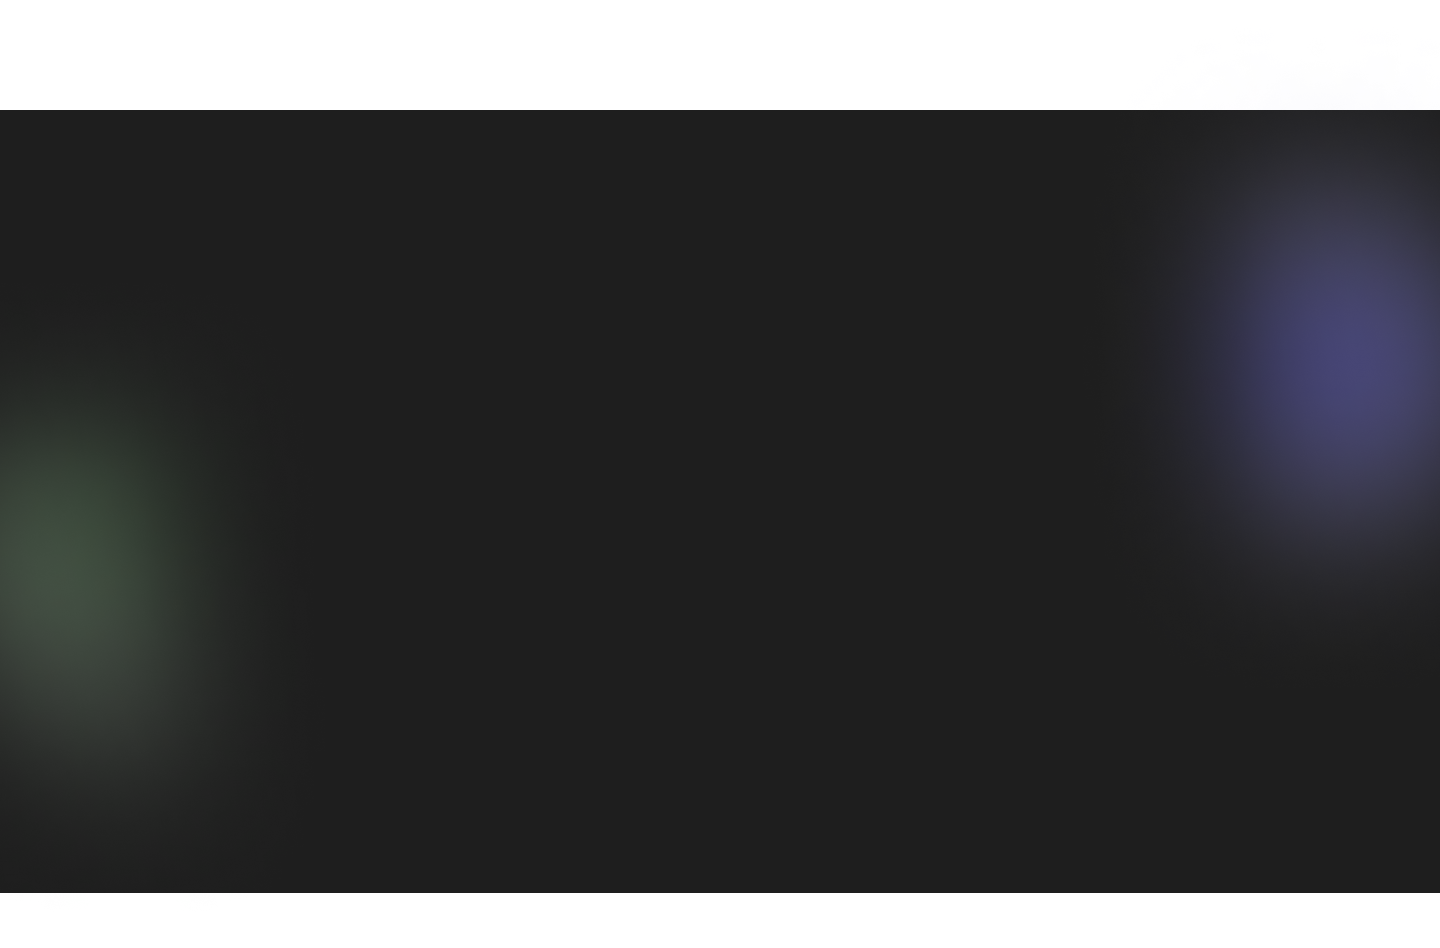
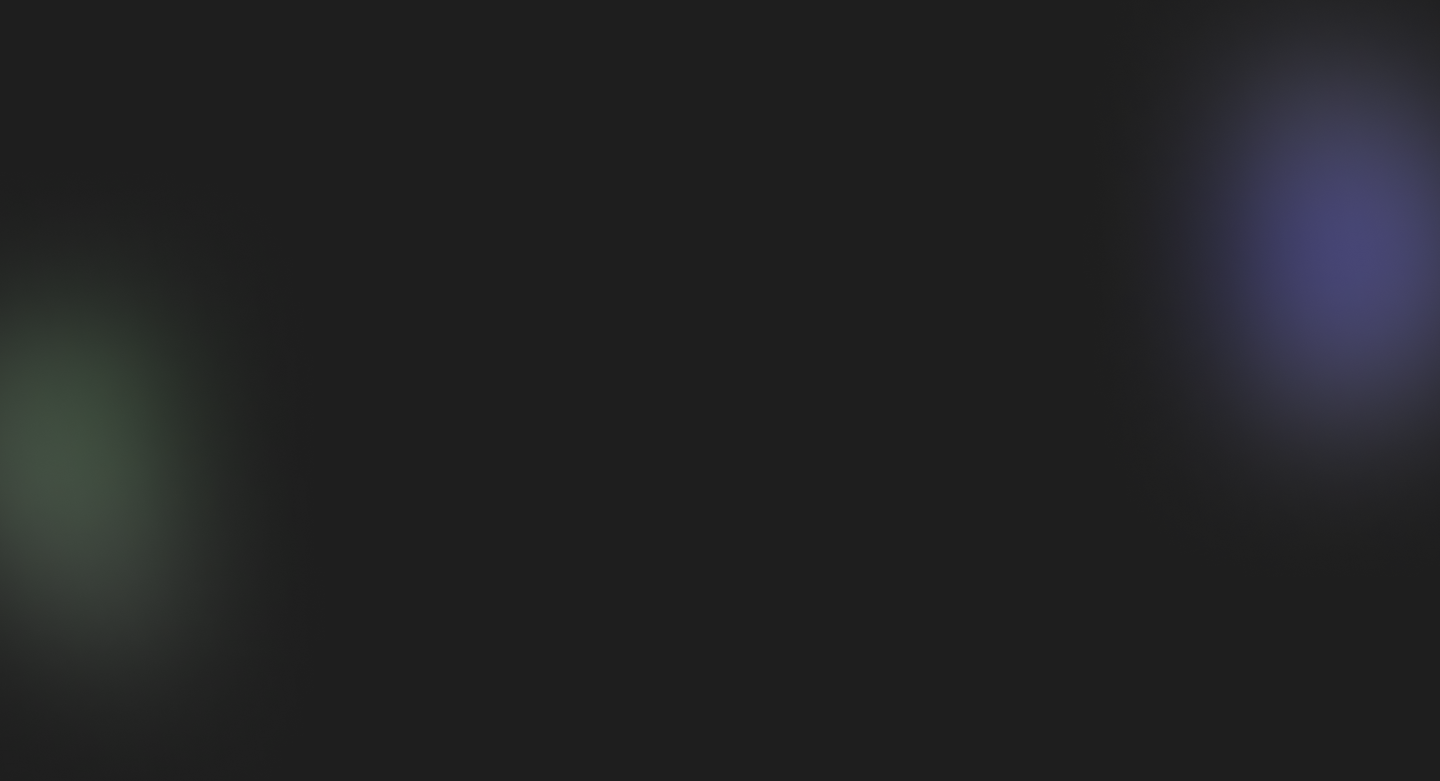
Added more sections

Changed region(s): [[0.0, 0.0, 1.0, 0.2766], [0.0, 0.9219, 1.0, 1.0]]

diff --git a/index.html b/index.html
@@ -89,8 +89,96 @@
           </div>
         </div>
       </div>
-      <div class="about-section"></div>
-      <div class="my-work-section"></div>
+      <div class="about-section">
+        <h2 class="p-5">About Me</h2>
+        <img
+          src="/visuals/ellipse-green.png"
+          alt=""
+          class="img-fluid ellipse green"
+        />
+        <img
+          src="/visuals/ellipse-blue.png"
+          alt=""
+          class="img-fluid ellipse blue"
+        />
+        <div class="container">
+          <div class="row">
+            <div class="col-md-4">
+              <p>
+                Front-end developer from Ukraine who focuses on constant
+                learning and improving. <br />
+                <br />
+                <strong>Skills: </strong><br />
+                HTML5, CSS3, JavaScript, Bootstrap, Git, API
+              </p>
+            </div>
+            <div class="col-md-4">
+              <img
+                src="/visuals/about-photo.png"
+                alt="my photo"
+                class="img-fluid photo"
+              />
+            </div>
+            <div class="col-md-4">
+              <p class="second-p">
+                <strong> Languages:</strong><br />
+                Ukrainian, English, Korean, Spanish <br /><br />
+                <strong>Hobbies:</strong> <br />
+                Dancing, gardening, photo editing, gaming
+              </p>
+            </div>
+          </div>
+        </div>
+      </div>
+      <div class="my-work-section">
+        <div class="work">
+          <h2 class="p-5">My Work</h2>
+          <div class="container">
+            <div class="row mb-5">
+              <div class="col-md-4">
+                <img src="/visuals/my-work.png" alt="" class="img-fluid" />
+              </div>
+              <div class="col-md-8">
+                <h3>Weather App</h3>
+                <p class="mb-4">
+                  Lorem ipsum dolor sit amet. Animi dolores et ipsum id mollitia
+                  quia. Et suscipit vitae hic sapiente illum aut temporibus
+                  aperiam et eius architecto aut deleniti quia.
+                </p>
+                <a href="#" class="my-work-button">Launch</a>
+              </div>
+            </div>
+            <div class="row mb-5">
+              <div class="col-md-4">
+                <img src="/visuals/my-work.png" alt="" class="img-fluid" />
+              </div>
+              <div class="col-md-8">
+                <h3>Weather App</h3>
+                <p class="mb-4">
+                  Lorem ipsum dolor sit amet. Animi dolores et ipsum id mollitia
+                  quia. Et suscipit vitae hic sapiente illum aut temporibus
+                  aperiam et eius architecto aut deleniti quia.
+                </p>
+                <a href="#" class="my-work-button">Launch</a>
+              </div>
+            </div>
+            <div class="row mb-5">
+              <div class="col-md-4">
+                <img src="/visuals/my-work.png" alt="" class="img-fluid" />
+              </div>
+              <div class="col-md-8">
+                <h3>Weather App</h3>
+                <p class="mb-4">
+                  Lorem ipsum dolor sit amet. Animi dolores et ipsum id mollitia
+                  quia. Et suscipit vitae hic sapiente illum aut temporibus
+                  aperiam et eius architecto aut deleniti quia.
+                </p>
+                <a href="#" class="my-work-button">Launch</a>
+              </div>
+            </div>
+          </div>
+        </div>
+      </div>
       <div class="contact-section"></div>
     </div>
   </body>

diff --git a/src/style.css b/src/style.css
@@ -1,18 +1,18 @@
 body {
   font-family: "Montserrat", sans-serif;
+  color: #ffffff;
 }
 
 .navbar {
   font-size: 1.5vw;
   background-color: rgba(30, 30, 30, 0.4);
 }
-
 .nav-link {
   color: #ffffff !important;
 }
 
 .active {
-  font-weight: 500;
+  font-weight: 600 !important;
 }
 
 a:hover {
@@ -23,7 +23,14 @@ a:hover {
   background-image: url(/visuals/hero-section.png);
   background-size: auto;
   background-repeat: no-repeat;
-  height: 800px;
+  height: auto;
+  padding-bottom: 90px;
+}
+
+.hero-section img {
+  display: block;
+  margin: 0 auto;
+  padding-top: 20px;
 }
 
 .hero-text {
@@ -34,11 +41,70 @@ h1 {
   font-family: "Montserrat Alternates", sans-serif;
   font-size: 9vw;
   font-weight: 800;
-  color: #ffffff;
+
   max-width: 650px;
 }
 
-.hero-p {
-  font-size: 2vw;
+h2 {
+  font-weight: 800;
+  font-size: 5vw;
+}
+
+p {
+  font-size: 2vw !important;
+  line-height: 170%;
+}
+
+.about-section {
+  background-color: #1e1e1e;
+  background-size: 100%;
+  background-repeat: no-repeat;
+}
+
+.about-section .green {
+  position: absolute;
+  left: 0;
+}
+
+.about-section .blue {
+  position: absolute;
+  right: 0;
+  top: 500px;
+}
+
+.second-p {
+  text-align: right;
+}
+
+.my-work-section {
+  background-color: #d9d9d9;
+}
+
+h3 {
+  font-weight: 800;
+}
+
+.my-work-button {
+  background: linear-gradient(266.47deg, #7b9e7b 9.69%, #424183 88.47%);
+  padding: 17px 35px;
+  border-radius: 36px;
   color: #ffffff;
+  text-decoration: none;
+  font-size: 20px;
+  font-weight: 800;
+}
+
+@media screen and (max-width: 770px) {
+  .hero-section img {
+    width: 350px;
+  }
+
+  .about-section .photo {
+    display: none;
+  }
+
+  p {
+    font-size: 18px !important;
+    text-align: left;
+  }
 }
